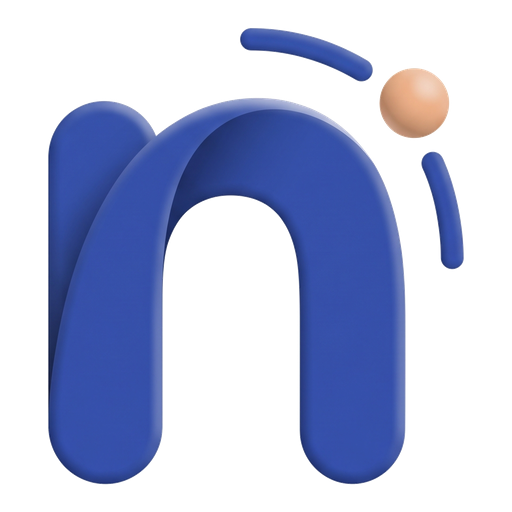
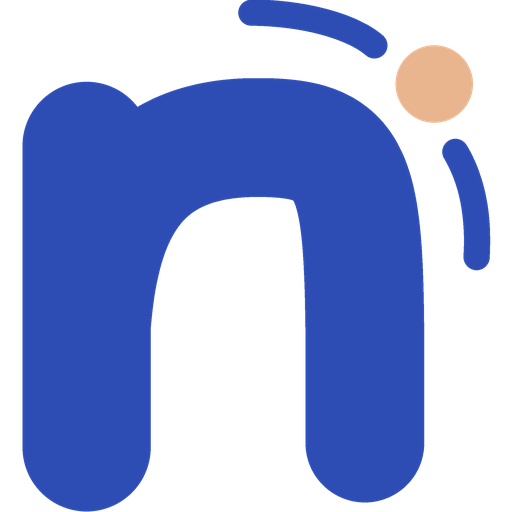
brand: add the SVG master and derive the web rasters from it
ic_launcher_foreground.xml wrapped the approved JPEG and its own comment
listed "SVG master" as outstanding, so the only artwork that existed was a
2048px render. The site was using a PNG keyed out of that render.

assets/brand/nudgio-mark.svg is reconstructed from it by measurement, not
by eye. Its coordinate space is the JPEG's own 2048px space, so every
number is checkable against the source pixel for pixel: stem 594-836,
right leg 1129-1353, apex outer top 660, sphere (1372,671) r73, chimes a
uniform 49 wide. The shoulder's control points are least-squares fitted to
centreline samples read off the raster, then checked by rasterising both
and comparing scanlines — 7.8px mean error on a 2048 canvas, 0.38%.

Flat by intent. The JPEG is a soft-3D render; a master is the canonical
form behind it, and flat is what survives 16px and print. Colours are the
Ink & Apricot tokens the app ships rather than the render's shaded blues.

scripts/build-brand-assets.py rasterises the master into the PNG sizes the
site needs, so the fallbacks cannot drift from the vector. Regenerating
them shrank the set sharply: the 512 dropped 147 KB to 29 KB, the header
mark is now 2 KB of vector and crisp at any density.

The Android launcher icon still points at the JPEG. Switching it to this
master is an app change and wants its own release, so it is left alone.

Changed region(s): [[0.0312, 0.0, 0.9688, 1.0]]

diff --git a/web/privacy.html b/web/privacy.html
@@ -7,15 +7,16 @@
   <meta name="description" content="Nudgio collects no data. The app has no account, no analytics and no Internet permission. This page also covers the download page's optional waitlist." />
   <meta name="theme-color" content="#F7F4EE" media="(prefers-color-scheme: light)" />
   <meta name="theme-color" content="#11141D" media="(prefers-color-scheme: dark)" />
+  <link rel="icon" type="image/svg+xml" href="brand/nudgio-mark.svg" />
   <link rel="icon" type="image/png" sizes="64x64" href="brand/nudgio-mark-64.png" />
-  <link rel="icon" type="image/png" sizes="192x192" href="brand/nudgio-mark-192.png" />
+  <link rel="apple-touch-icon" href="brand/nudgio-mark-192.png" />
   <link rel="stylesheet" href="styles.css" />
 </head>
 <body>
 
   <header class="site-header">
     <a class="wordmark" href="/">
-      <img class="wordmark__mark" src="brand/nudgio-mark-192.png" width="192" height="192" alt="" aria-hidden="true" decoding="async" />
+      <img class="wordmark__mark" src="brand/nudgio-mark.svg" width="968" height="968" alt="" aria-hidden="true" decoding="async" />
       Nudgio
     </a>
     <nav class="site-nav">

diff --git a/web/index.html b/web/index.html
@@ -12,8 +12,8 @@
   <meta property="og:description" content="Reminders and alarms built from your own media. No account, no backend, no internet permission." />
   <meta property="og:type" content="website" />
 
+  <link rel="icon" type="image/svg+xml" href="brand/nudgio-mark.svg" />
   <link rel="icon" type="image/png" sizes="64x64" href="brand/nudgio-mark-64.png" />
-  <link rel="icon" type="image/png" sizes="192x192" href="brand/nudgio-mark-192.png" />
   <link rel="apple-touch-icon" href="brand/nudgio-mark-192.png" />
   <meta property="og:image" content="https://nudgio.mohdaslam.dev/brand/nudgio-og.png" />
   <meta name="twitter:card" content="summary_large_image" />
@@ -26,7 +26,7 @@
 
   <header class="site-header">
     <a class="wordmark" href="#top">
-      <img class="wordmark__mark" src="brand/nudgio-mark-192.png" width="192" height="192"
+      <img class="wordmark__mark" src="brand/nudgio-mark.svg" width="968" height="968"
            alt="" aria-hidden="true" decoding="async" />
       Nudgio
     </a>

diff --git a/scripts/build-brand-assets.py b/scripts/build-brand-assets.py
@@ -1,0 +1,61 @@
+"""Rasterise the Nudgio SVG master into the PNGs the site serves.
+
+Draws the same primitives the SVG declares — round-capped strokes are circles
+swept along their centreline — at 4x and downsamples, so the output is the
+master rather than a lookalike. Keep the numbers here in sync with
+assets/brand/nudgio-mark.svg; both are read from the same measurements.
+"""
+from PIL import Image, ImageDraw
+import os
+
+COBALT = (45, 77, 181)      # #2D4DB5
+APRICOT = (233, 181, 142)   # #E9B58E
+VIEW = (551, 512, 968)      # viewBox x, y, side
+
+STEM = ((715, 788), (715, 1358), 242)
+SHOULDER = (((718, 1350), (718, 1050), (720, 772), (1037, 772)),
+            ((1037, 772), (1250, 772), (1241, 850), (1241, 1350)))
+CHIMES = ((((1026, 536), (1120, 536), (1215, 560), (1259, 598)), 49),
+          (((1412, 799), (1448, 860), (1456, 930), (1452, 998)), 49))
+SPHERE = (1372, 671, 73)
+
+def bez(p, t):
+    mt = 1 - t
+    return (mt**3*p[0][0] + 3*mt*mt*t*p[1][0] + 3*mt*t*t*p[2][0] + t**3*p[3][0],
+            mt**3*p[0][1] + 3*mt*mt*t*p[1][1] + 3*mt*t*t*p[2][1] + t**3*p[3][1])
+
+def sweep(draw, pts, width, scale, ox, oy, colour):
+    r = width / 2 * scale
+    for x, y in pts:
+        cx, cy = (x - ox) * scale, (y - oy) * scale
+        draw.ellipse([cx - r, cy - r, cx + r, cy + r], fill=colour)
+
+def render(size, ss=4):
+    n = size * ss
+    scale = n / VIEW[2]
+    ox, oy = VIEW[0], VIEW[1]
+    img = Image.new("RGBA", (n, n), (0, 0, 0, 0))
+    d = ImageDraw.Draw(img)
+    (x0, y0), (x1, y1), w = STEM
+    sweep(d, [(x0, y0 + (y1 - y0) * i / 600) for i in range(601)], w, scale, ox, oy, COBALT + (255,))
+    pts = [bez(SHOULDER[0], i / 800) for i in range(801)] + [bez(SHOULDER[1], i / 800) for i in range(801)]
+    sweep(d, pts, 224, scale, ox, oy, COBALT + (255,))
+    for curve, w in CHIMES:
+        sweep(d, [bez(curve, i / 400) for i in range(401)], w, scale, ox, oy, COBALT + (255,))
+    cx, cy, r = SPHERE
+    cx, cy, r = (cx - ox) * scale, (cy - oy) * scale, r * scale
+    d.ellipse([cx - r, cy - r, cx + r, cy + r], fill=APRICOT + (255,))
+    return img.resize((size, size), Image.LANCZOS)
+
+root = os.path.join(os.path.dirname(os.path.abspath(__file__)), "..")
+out = os.path.join(root, "web", "brand")
+os.makedirs(out, exist_ok=True)
+for size in (512, 192, 64):
+    render(size).save(os.path.join(out, "nudgio-mark-%d.png" % size), optimize=True)
+    print("wrote nudgio-mark-%d.png" % size)
+
+og = Image.new("RGB", (1200, 630), (247, 244, 238))
+m = render(300)
+og.paste(m, (450, 165), m)
+og.save(os.path.join(out, "nudgio-og.png"), optimize=True)
+print("wrote nudgio-og.png")
